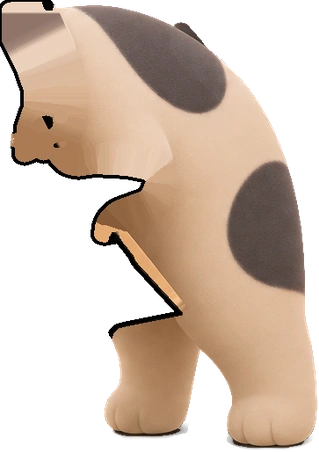
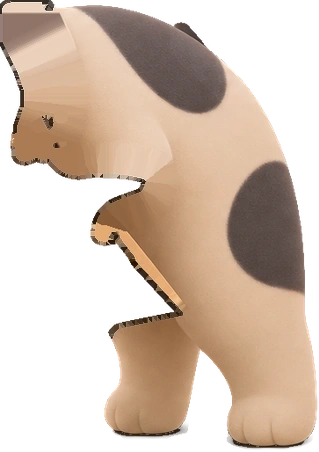
🐛 fix(not-found): keep both paper balls still and clear the floor streak and specks
A tap no longer moves the paper: until there are painted roll frames, it only catches the cat's eye. The hidden layers (tail, body, neck, head underside) lose the black and dark contour they still carried from the drawing, which peeked out as specks at the head's edge and the back whenever the head lifted or the tail swayed; the tail's base band now ends where it meets the back. The box's contact line runs on to the first ball instead of leaving a pale streak.

diff --git a/components/lost-cat.tsx b/components/lost-cat.tsx
@@ -139,18 +139,9 @@ const Eye = ({ side }: { side: "left" | "right" }) => {
   );
 };
 
-const lerp = (a: number, b: number, u: number) => a + (b - a) * u;
 const clamp = (u: number) => Math.min(1, Math.max(0, u));
 const sine = (u: number) => -(Math.cos(Math.PI * clamp(u)) - 1) / 2;
-const out = (u: number) => 1 - Math.pow(1 - clamp(u), 3);
 
-// A tap scoots the paper balls apart, in scene-width percent: a hop out, a
-// rock of a few degrees at most, and a slide back home, upright again, so the
-// drawn light always falls from the right side and the first ball keeps the
-// box's corner covered at rest.
-const SCOOT = [-3.2, 2.4];
-const HOP = 1.6;
-const ROCK = 8;
 // The head's lift when it looks up, in percent of the scene's height (7 px of
 // 832), and its tilt, in degrees: the painted neck holds to about here.
 const LIFT = 0.84;
@@ -168,8 +159,6 @@ export const Cat = () => {
     const body = rig("body");
     const tail = [rig("tail"), rig("tail-mid"), rig("tail-tip")];
     const head = rig("head");
-    const balls = [rig("paper"), rig("paper-2")];
-    const ballShadow = rig("paper-2-shadow");
     const ears = { left: rig("ear-left"), right: rig("ear-right") };
     const pupils = { left: rig("pupil-left"), right: rig("pupil-right") };
     const lids = (["left", "right"] as const).map((side) => ({
@@ -197,7 +186,6 @@ export const Cat = () => {
     let flick = { at: -10, side: "left" as "left" | "right" };
     let nextSwish = 5;
     let swish = { at: -10, dir: 1 };
-    let scoot = -10;
     const rand = (a: number, b: number) => a + Math.random() * (b - a);
 
     // 0 open, 1 half, 2 closed: a blink is half, closed, half, about 0.2 s.
@@ -309,27 +297,6 @@ export const Cat = () => {
       joints.forEach(
         (deg, i) => (tail[i].style.transform = `rotate(${deg}deg)`),
       );
-
-      // The paper balls scoot: out with a small hop in 0.45 s, a beat, then
-      // back home in 0.6 s, rocking to rest at 0 degrees.
-      const k = t - scoot;
-      let away = 0;
-      let hop = 0;
-      let rock = 0;
-      if (k >= 0 && k < 1.6) {
-        const o = clamp(k / 0.45);
-        const back = clamp((k - 0.6) / 0.6);
-        away = out(o) * (1 - back * back * (3 - 2 * back));
-        hop = Math.sin(Math.PI * o) * HOP;
-        rock = Math.sin(k * 11) * Math.exp(-k * 2.6) * ROCK;
-      }
-      balls.forEach((el, i) => {
-        const dx = SCOOT[i] * away;
-        const dir = Math.sign(SCOOT[i]);
-        el.style.transform = `translate(${dx}%, ${-hop}%) rotate(${rock * dir}deg)`;
-        if (i === 1)
-          ballShadow.style.transform = `translateX(${dx}%) scaleX(${1 - hop * 0.08})`;
-      });
     };
 
     const tick = (now: number) => {
@@ -364,15 +331,10 @@ export const Cat = () => {
         nextGlance = clock + rand(9, 13);
       }
     };
-    const kick = () => {
-      if (calm || clock - scoot < 1.2) return;
-      scoot = clock;
-    };
     root.dataset.ready = "";
-    const onTap = () => {
-      notice.current();
-      kick();
-    };
+    // A tap only catches the cat's eye: the paper stays put until it has
+    // painted rotation frames to roll with.
+    const onTap = () => notice.current();
     root.addEventListener("click", onTap);
 
     const query = window.matchMedia("(prefers-reduced-motion: reduce)");
@@ -386,7 +348,6 @@ export const Cat = () => {
           if (l.half) l.half.style.opacity = "0";
           l.closed.style.opacity = "0";
         }
-        scoot = -10;
       }
       update();
     };
@@ -446,18 +407,13 @@ export const Cat = () => {
         <Layer part="body" />
       </div>
       <Layer part="box" />
-      {/* The paper sits in front of the box's corner, so it can roll off it. */}
-      <div className={styles.rig} data-rig="paper">
-        <Layer part="paper" />
-      </div>
-      {/* The second ball sits in front of everything on the floor; its
-          shadow slides with it but never turns. */}
-      <div className={styles.rig} data-rig="paper-2-shadow">
-        <Layer part="paper-2-shadow" />
-      </div>
-      <div className={styles.rig} data-rig="paper-2">
-        <Layer part="paper-2" />
-      </div>
+      {/* The paper balls lie still on the floor, in front of the box: each is
+          one drawing (the first carries its contact shadow, the second has
+          its own layer under it). A roll would swap a ball's drawing for
+          painted frames lit the same way, over a shadow that only slides. */}
+      <Layer part="paper" />
+      <Layer part="paper-2-shadow" />
+      <Layer part="paper-2" />
       {/* The neck and the box behind the chin, for when the head moves. */}
       <Layer part="neck-under" motion />
       <div className={styles.rig} data-rig="head">

diff --git a/components/lost-cat.module.css b/components/lost-cat.module.css
@@ -42,7 +42,7 @@
 .rig[data-rig="tail-tip"] {
   transform-origin: 84% 17.5%;
 }
-/* Each tail band, in scene height: the base from y 25%, the middle 15-31%,
+/* Each tail band, in scene height: the base from y 25% to 41%, the middle 15-31%,
    the curl down to 19.5%. Where two meet, the upper one is opaque over the
    lower and fades out below it, so the joint never shows a line. */
 .seg {
@@ -51,7 +51,16 @@
   pointer-events: none;
 }
 .seg[data-seg="base"] {
-  mask-image: linear-gradient(to bottom, transparent 25%, #000 27%);
+  /* Below 40%, where the tube meets the back's line (39.3% at rest), it is
+     all behind the body; cut it there so the sway never swings it out past
+     the back's edge as a dark sliver. */
+  mask-image: linear-gradient(
+    to bottom,
+    transparent 25%,
+    #000 27%,
+    #000 40.2%,
+    transparent 41.2%
+  );
 }
 .seg[data-seg="mid"] {
   mask-image: linear-gradient(
@@ -115,15 +124,4 @@
 /* The feet: the body breathes from the floor. */
 .rig[data-rig="body"] {
   transform-origin: 80% 90%;
-}
-/* The middle of the paper ball, on the floor. */
-.rig[data-rig="paper"] {
-  transform-origin: 11.8% 98%;
-}
-/* The second ball rocks on its foot; its shadow squeezes about its middle. */
-.rig[data-rig="paper-2"] {
-  transform-origin: 81% 99%;
-}
-.rig[data-rig="paper-2-shadow"] {
-  transform-origin: 81% 98%;
 }
